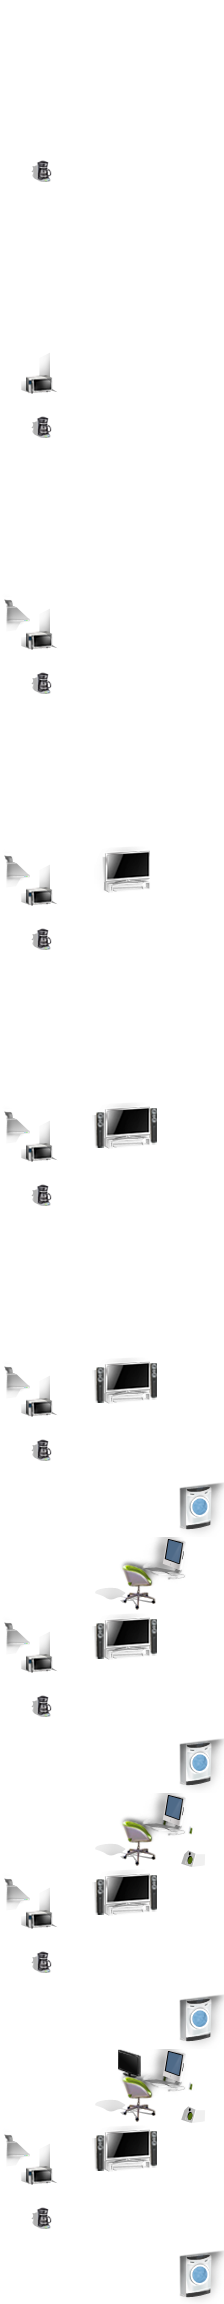
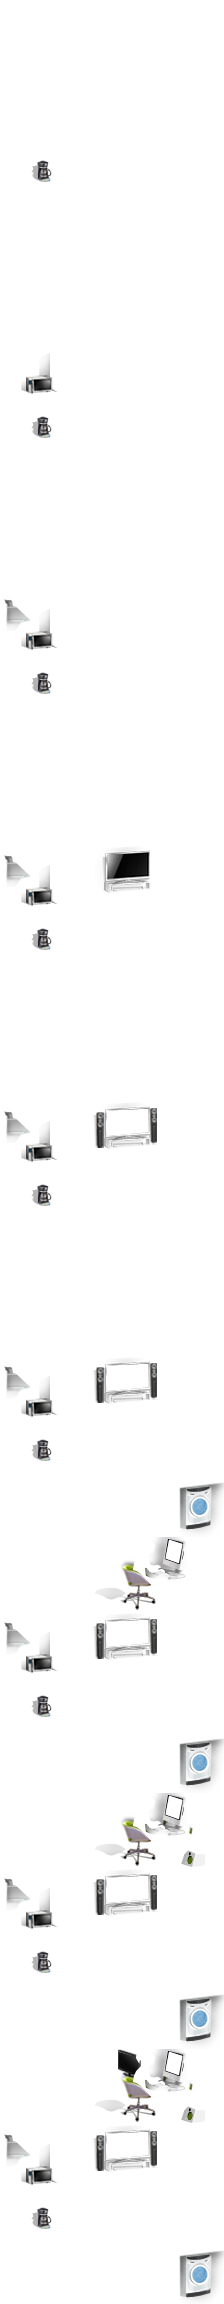
Cut transparency around the animated props
Cut around the outline of the animated props (the girl on the computer
and the TV) and moved then moved that prop *above* the animation. This
causes the animation, below the appliaces layer, to show through.

Closes #358.

diff --git a/app/assets/stylesheets/scenes/house/_header.sass b/app/assets/stylesheets/scenes/house/_header.sass
@@ -87,7 +87,7 @@
 
     .lighting
       @include house-prop-dyn('lighting.png', 260px, 219px, 874px, 223px)
-      z-index: 6
+      z-index: 7
 
       .icon.incandescent_lighting
         background-position: left 0
@@ -139,7 +139,7 @@
 
     .appliances
       @include house-prop-dyn('appliances.png', 224px, 256px, 876px, 277px)
-      z-index: 6
+      z-index: 7
 
       .icon.none
         background-position: 0 0
